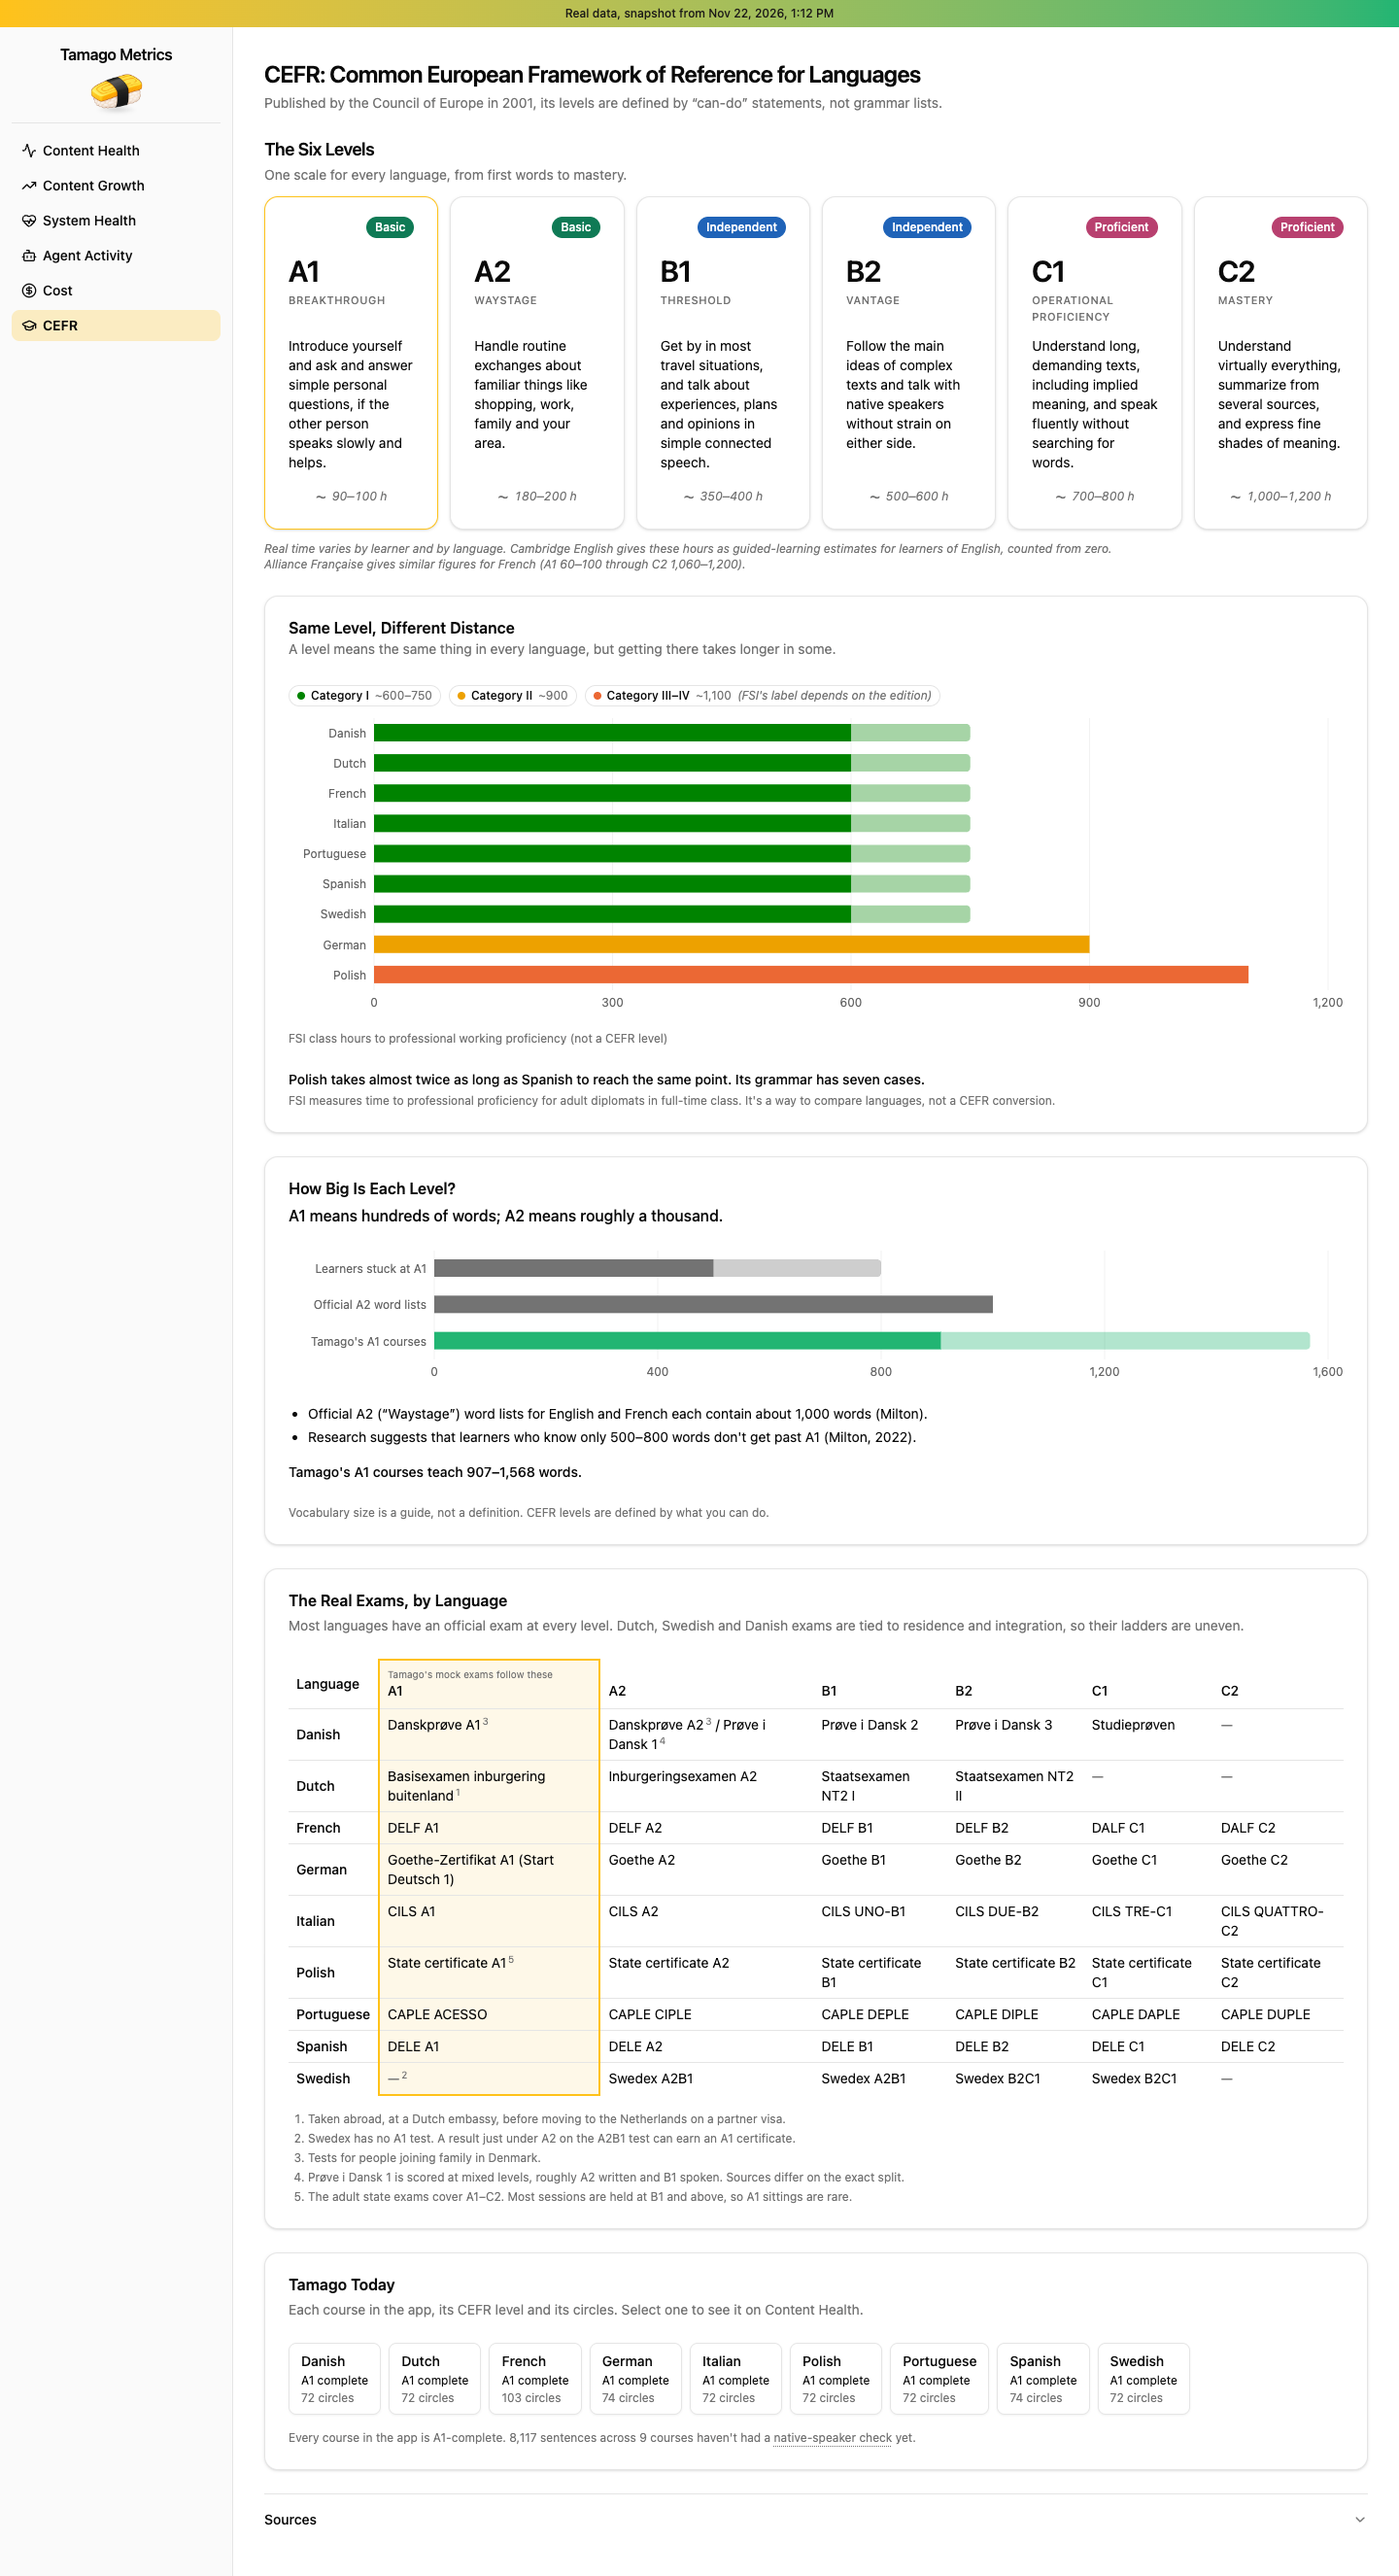
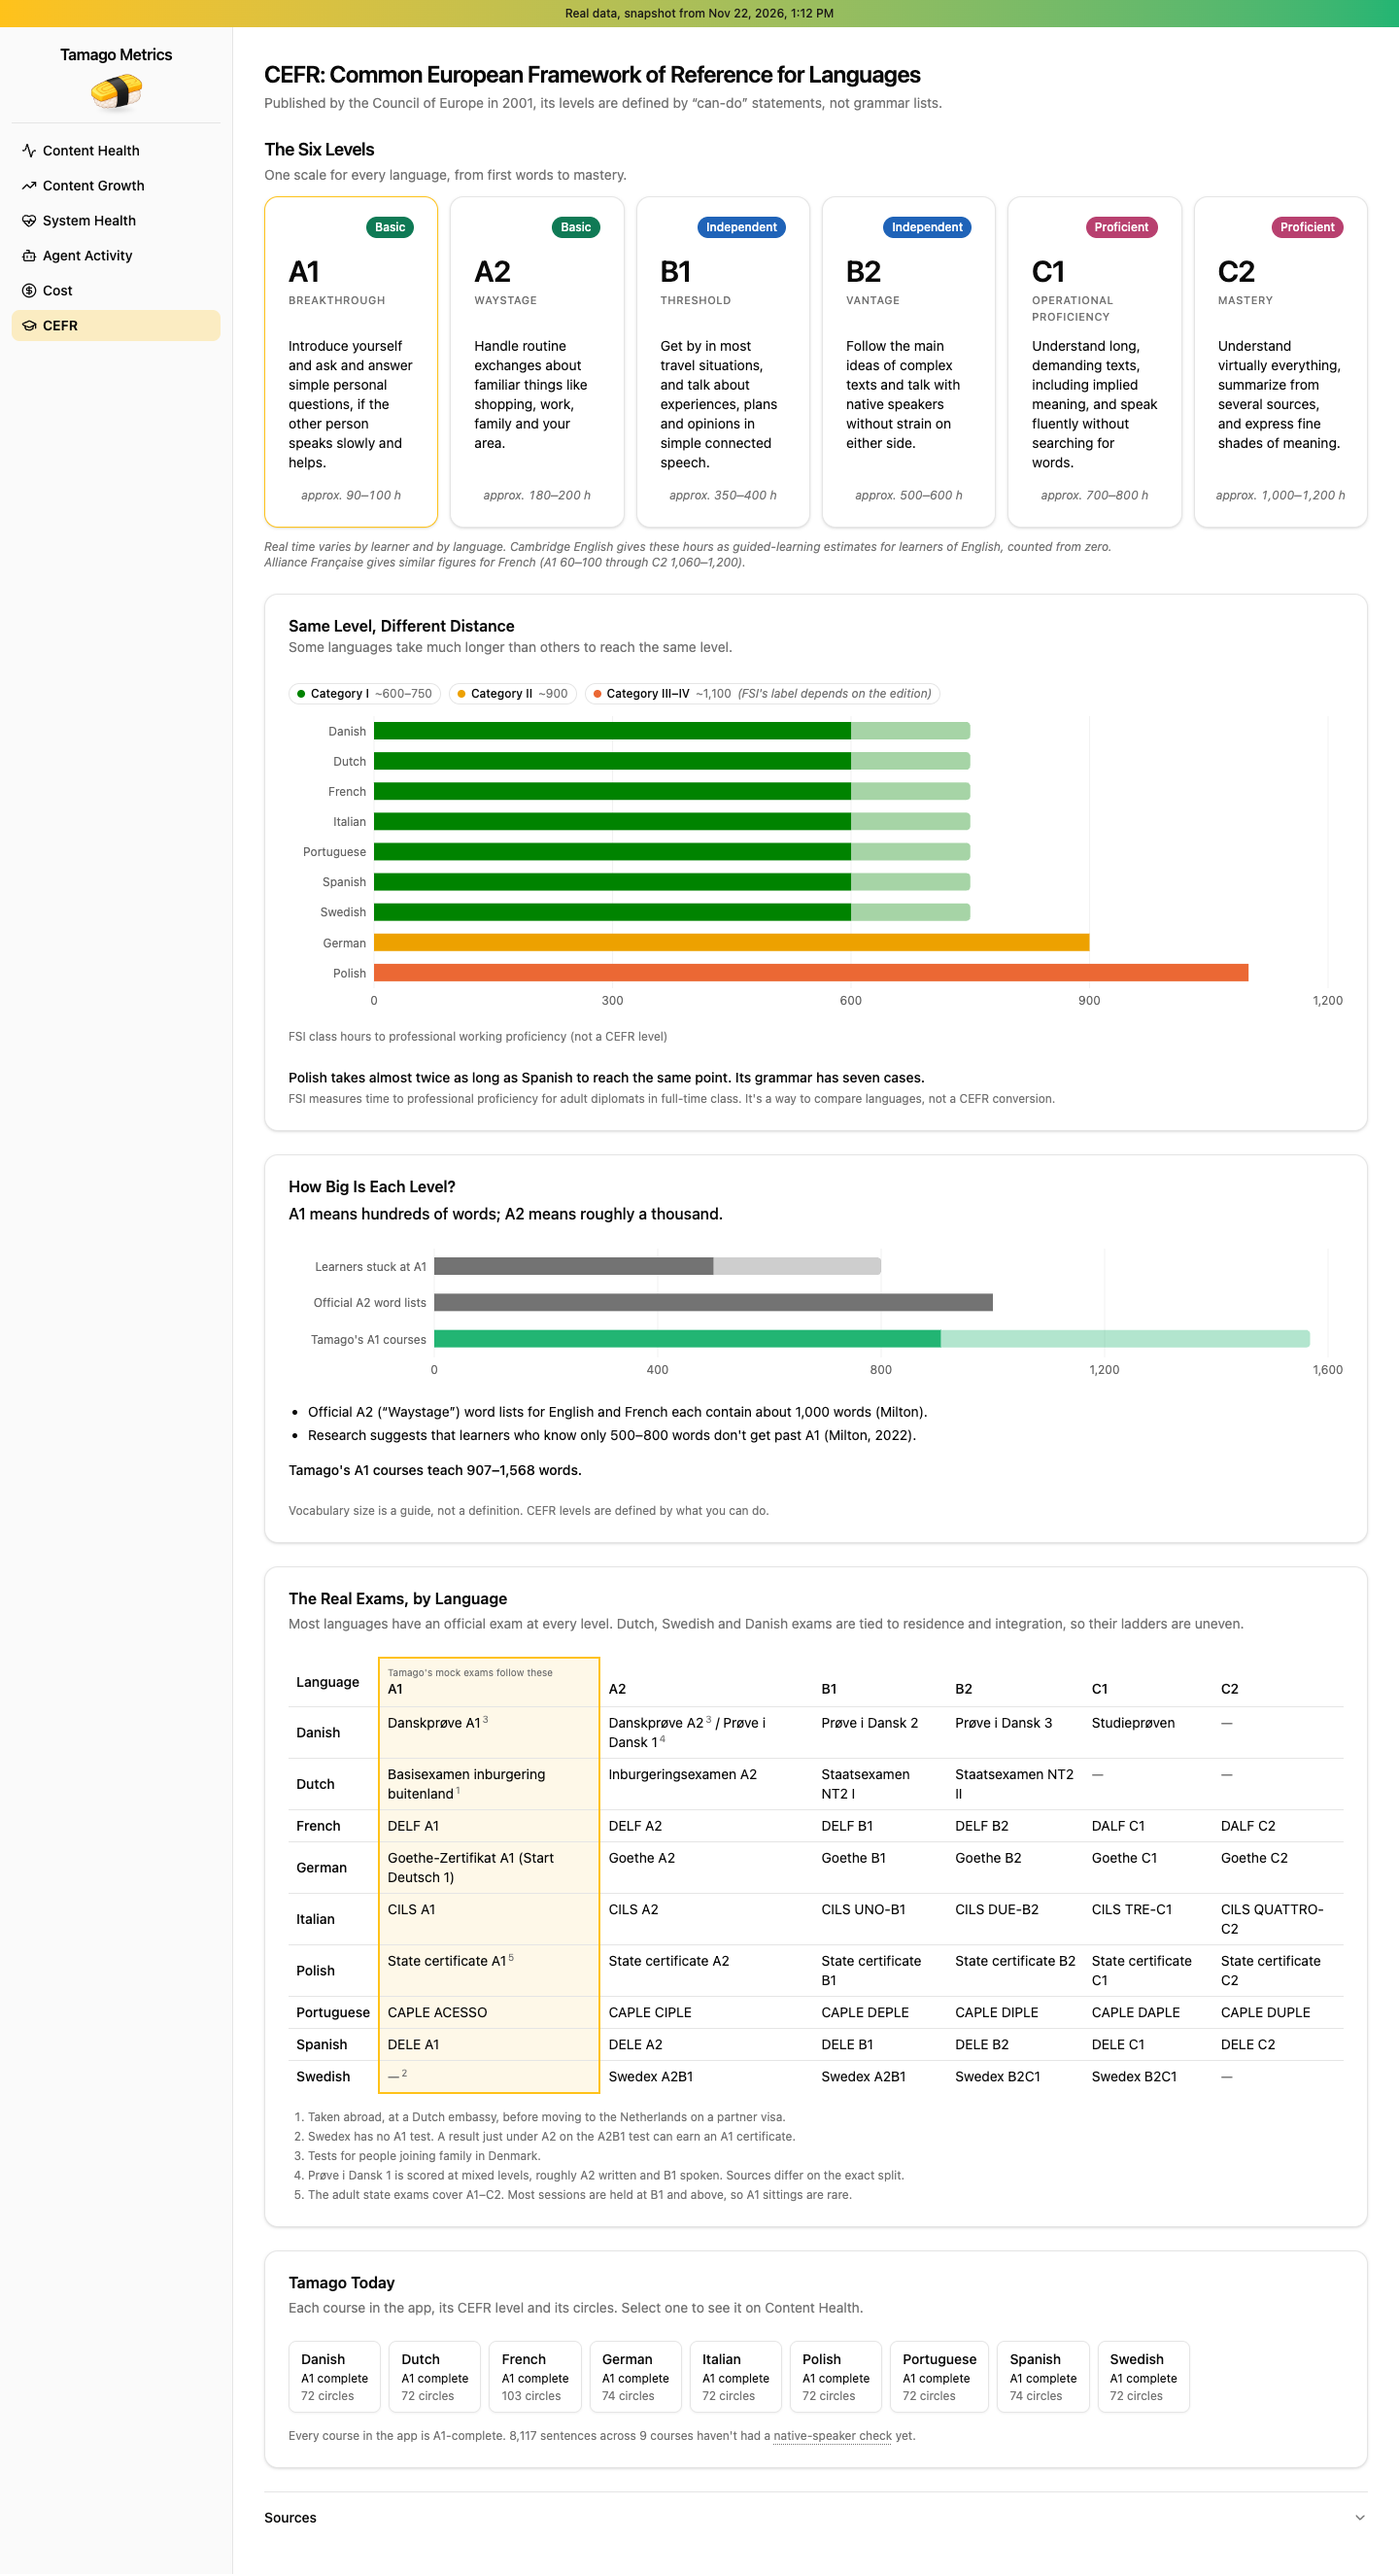
CEFR: hours as 'approx. 90–100 h' on one line; distance intro as one thought

diff --git a/src/layout/CefrLadder.tsx b/src/layout/CefrLadder.tsx
@@ -25,11 +25,8 @@ export function CefrLadder() {
                 <p className="text-[11px] font-medium tracking-wider text-muted-foreground uppercase">{level.name}</p>
               </CardHeader>
               <CardContent className="text-sm">{level.canDo}</CardContent>
-              <CardFooter className="items-center justify-center py-1 text-xs text-muted-foreground italic tabular-nums">
-                <span aria-hidden="true" className="mr-1.5 text-lg leading-none not-italic">
-                  {cefrLadder.approx}
-                </span>
-                <span>{level.hours}</span>
+              <CardFooter className="items-center justify-center px-2 py-1 text-xs whitespace-nowrap text-muted-foreground italic tabular-nums">
+                {cefrLadder.approx} {level.hours}
               </CardFooter>
             </Card>
           </li>

diff --git a/src/data/cefr.ts b/src/data/cefr.ts
@@ -58,7 +58,7 @@ const tamagoBadge =
 export const cefrLadder = {
   title: ladderText.title,
   intro: ladderText.intro,
-  /** The approximation mark shown before every hours figure. */
+  /** The word shown before every hours figure: "approx." */
   approx: ladderText.approx,
   footnote: ladderText.footnote,
   levels: ladderText.levels.map((level): CefrLevel => {
